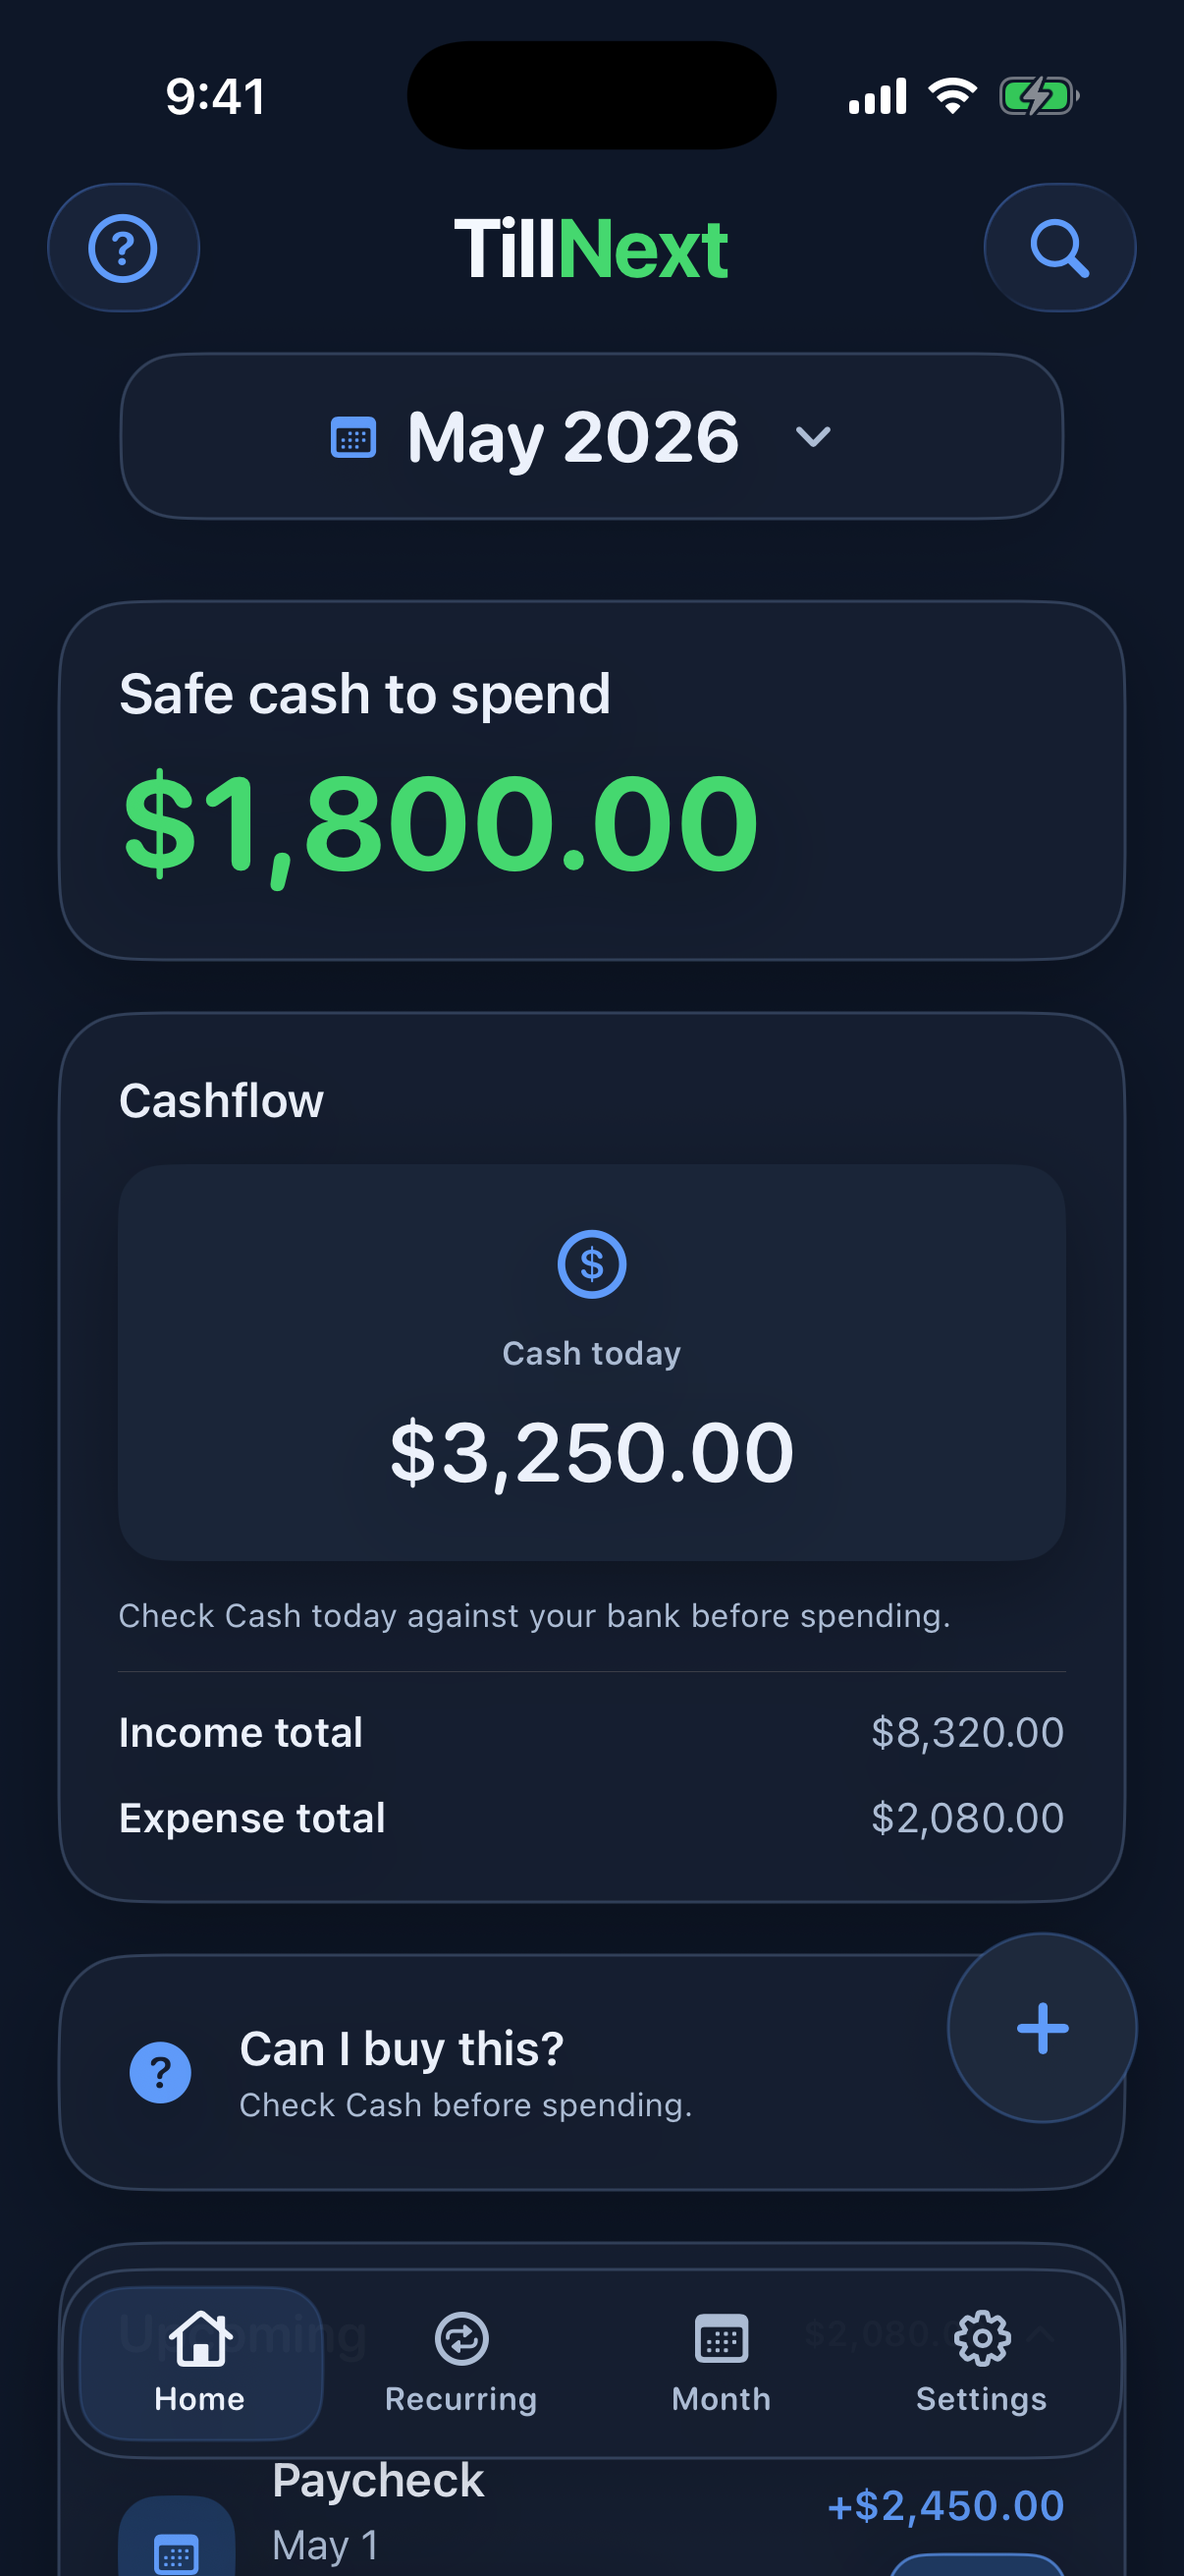
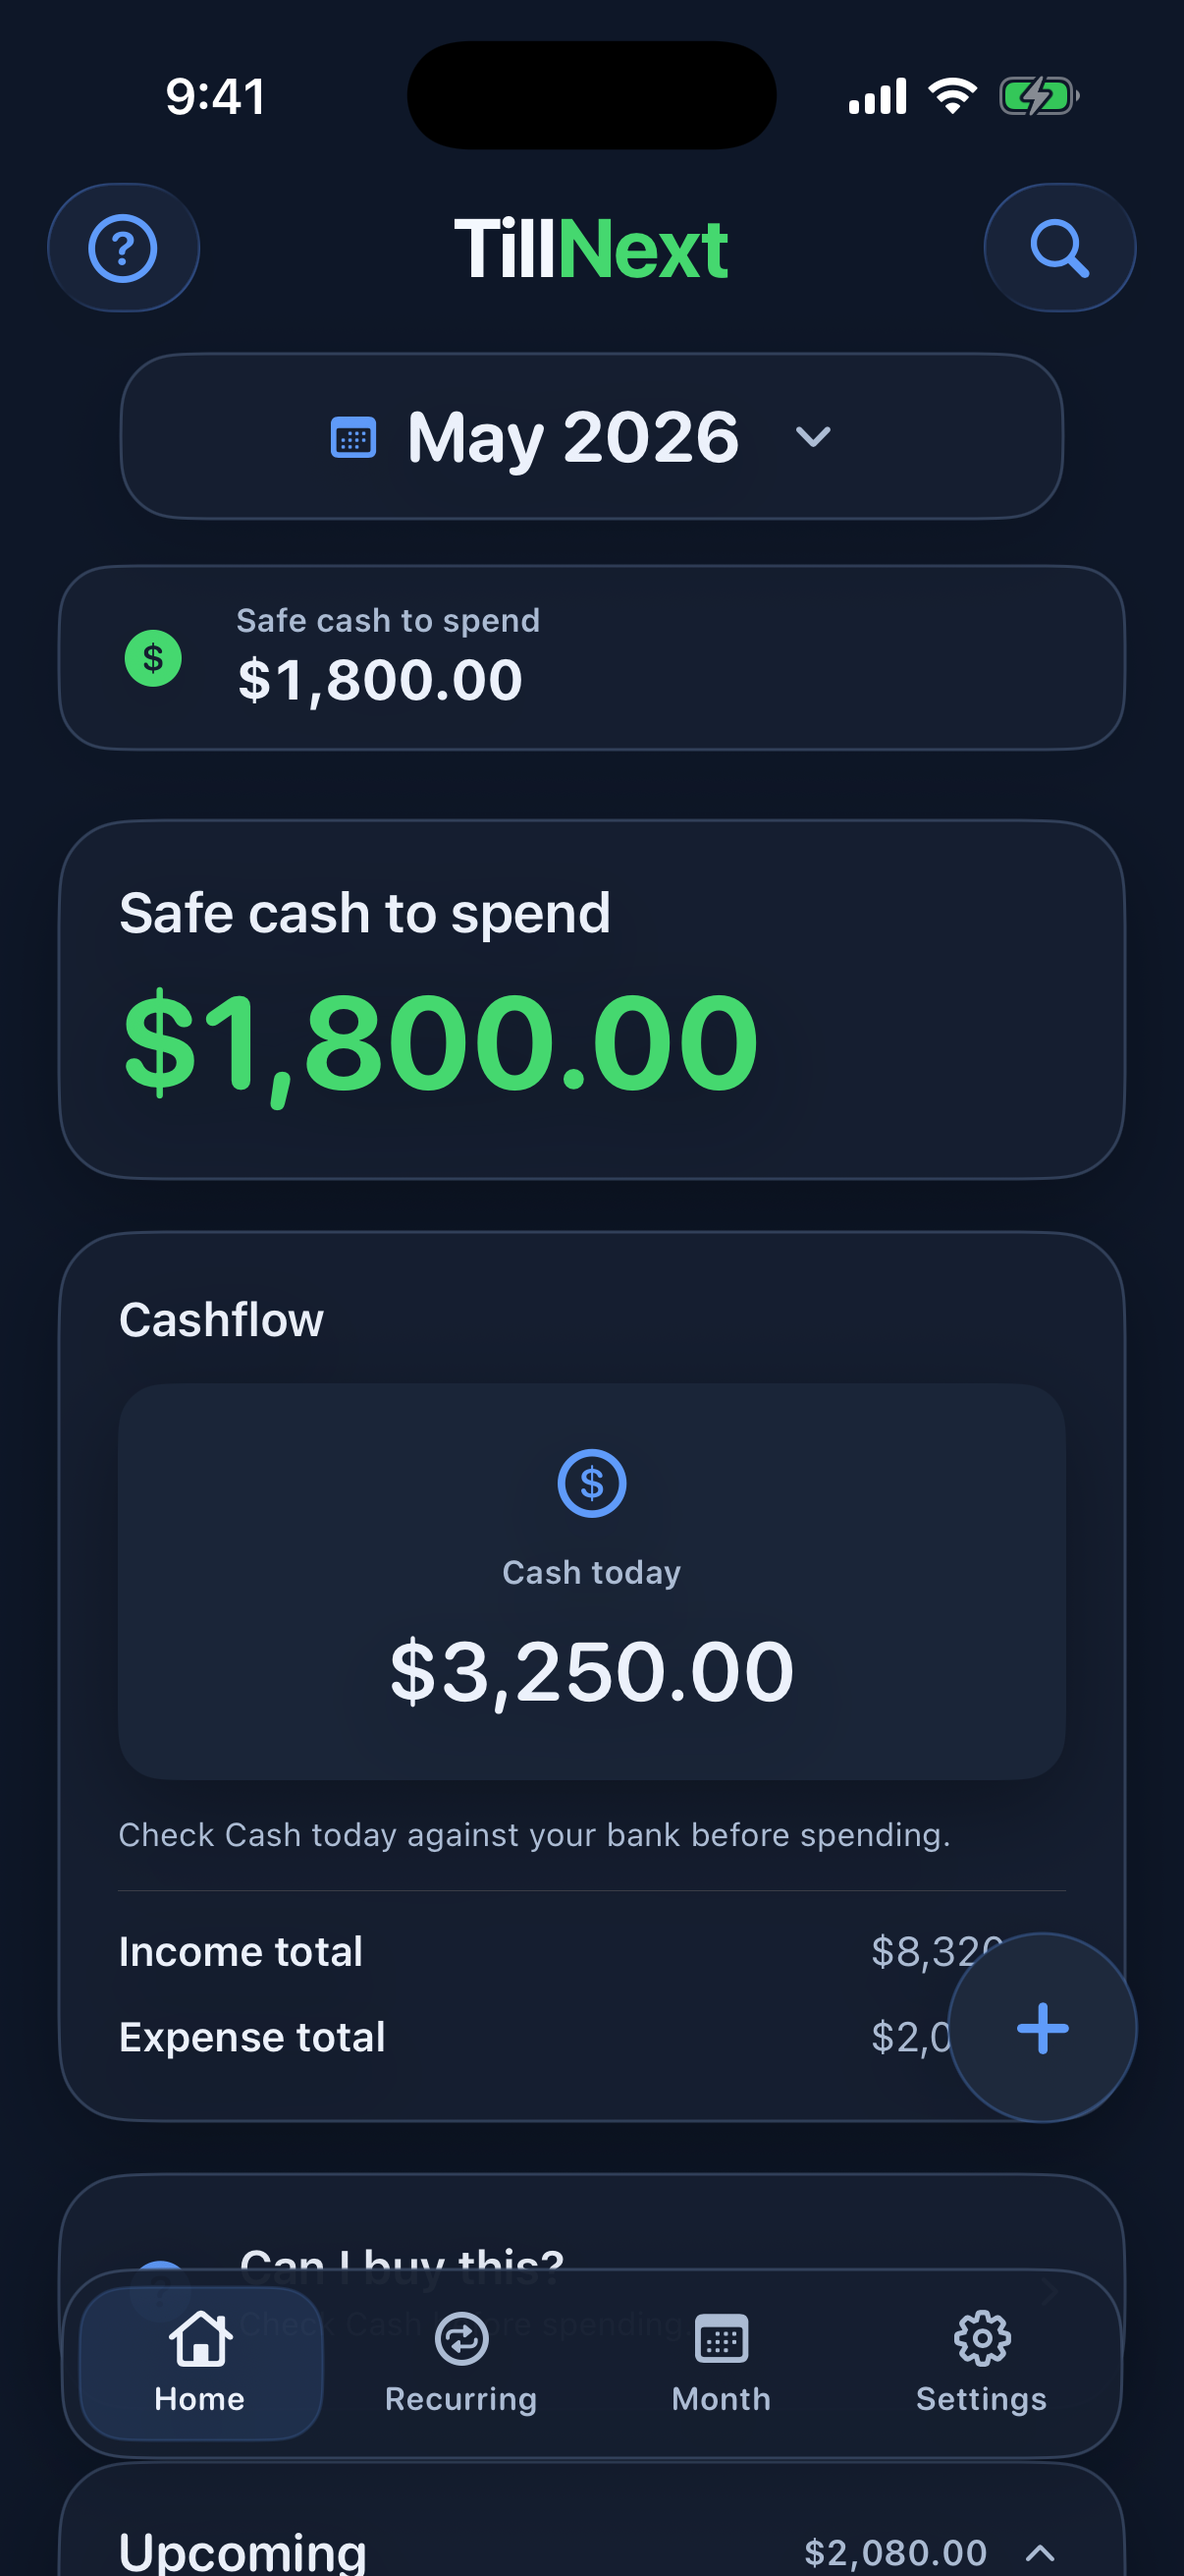
Update build 312 changelog and screenshots

diff --git a/changelog/index.html b/changelog/index.html
@@ -5,7 +5,7 @@
     <meta name="viewport" content="width=device-width, initial-scale=1">
     <title>TillNext: Paycheck Planner Changelog</title>
     <meta name="description" content="Public changelog for TillNext: Paycheck Planner.">
-    <link rel="stylesheet" href="../styles.css?v=20260512-build311">
+    <link rel="stylesheet" href="../styles.css?v=20260512-build312">
   </head>
   <body>
     <main>
@@ -23,6 +23,10 @@
       <p><strong>Updated:</strong> May 12, 2026</p>
       <h3>May 12, 2026</h3>
       <ul>
+        <li>Prepared build 312 for pre-launch testing.</li>
+        <li>Added Home display settings to hide Cash today prompts and keep Safe cash pinned while scrolling.</li>
+        <li>Improved the pinned Safe cash display so it stacks with trial and off-month notices instead of covering them.</li>
+        <li>Added automated test coverage and CI guidance to help protect local paycheck math and core planning flows.</li>
         <li>Prepared build 311 for pre-launch testing.</li>
         <li>Tightened the Month calendar into square day cells while keeping each day's balance and cashflow markers visible.</li>
         <li>Kept past Month calendar balances visible in a muted style, so earlier days still show their amounts without looking current.</li>
